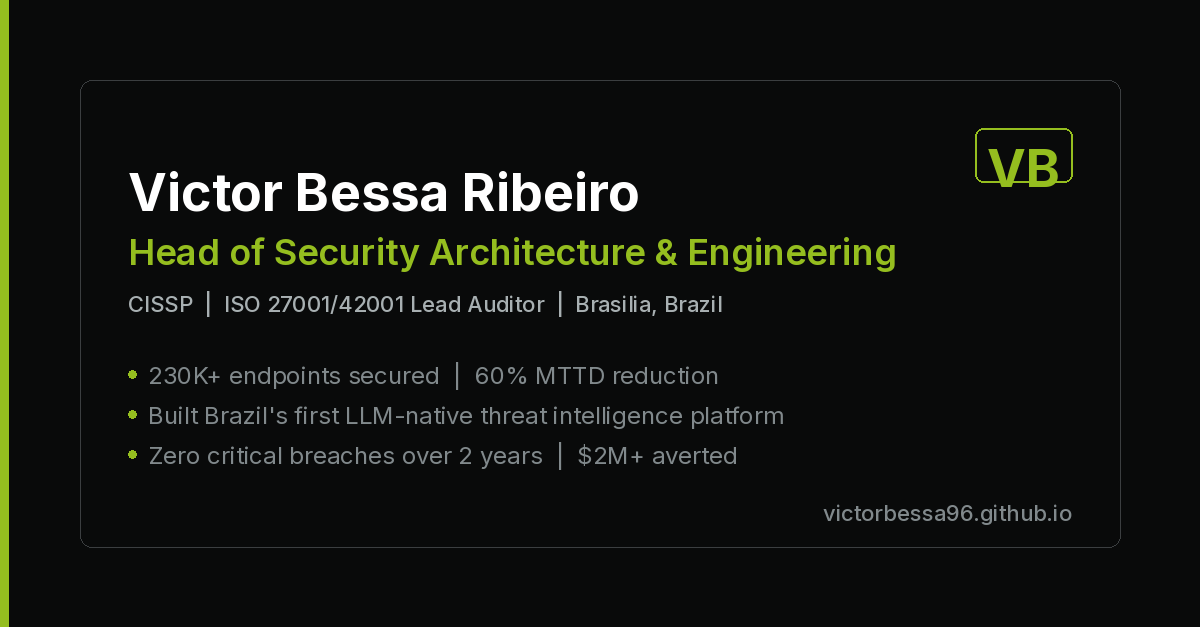
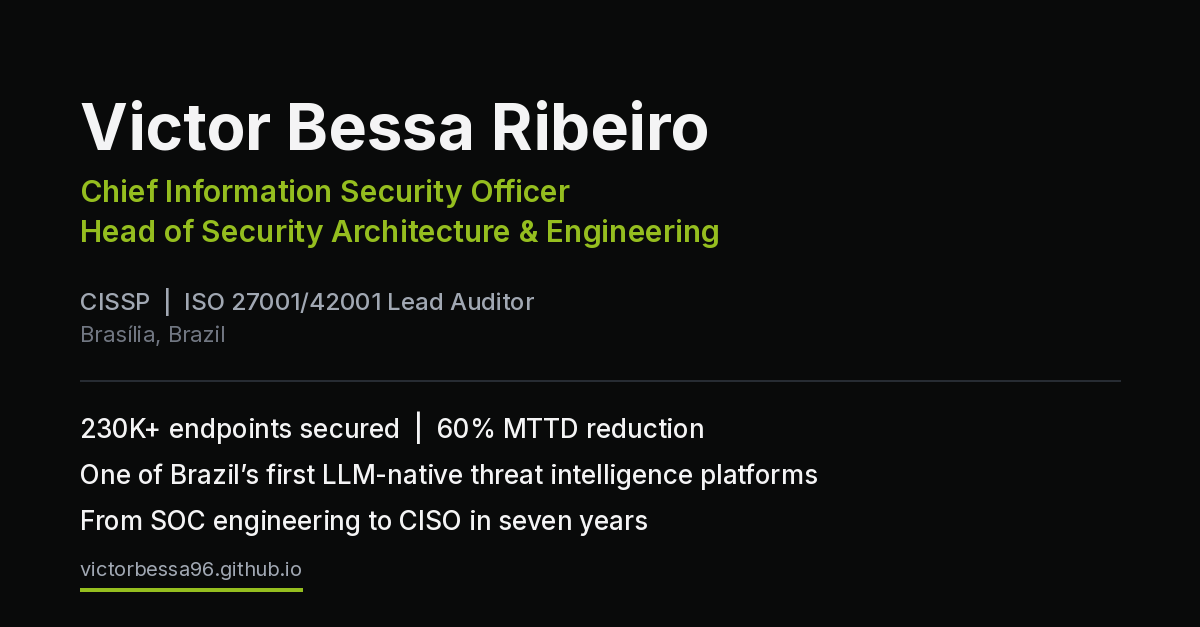
Add CISO (Magentrix) role; audit-driven rewrite of positioning and claims
- Identity: title/meta/OG/JSON-LD now lead with Chief Information
  Security Officer (Magentrix) alongside Head of Security Architecture
  (Zerum IT); worksFor is an array of both orgs
- Experience: new Magentrix CISO entry (Oct 2026 - Present, mandate
  scope only: ISMS/risk/governance, ISO 27001+SOC 2+PCI, bug bounty,
  AI/agent security governance); Zerum Head role concurrent, unchanged
- About: self-referential lines removed, seven-year SOC-to-CISO
  trajectory made explicit, Magentrix paragraph added
- Achievements: reworked to technical/commercial/governance trio;
  zero-breaches demoted to supporting evidence in SOC role; 'sole
  analyst' removed; 'First in Brazil' softened to early-mover
- Claims: 'LGPD certification' -> 'LGPD compliance'; $2M 'projected'
  -> 'incident analysis estimated'; 'Budget & P&L' -> 'Budget
  Management'
- Certs: ISO 9001/20000 and Toastmasters cards removed (LinkedIn);
  CISM stays in-progress until result
- Languages: French A2 removed (site + JSON-LD)
- Sidebar: availability line replaced with velocity statement
- og-banner.png regenerated to match new identity (old banner carried
  stale title and softened-claim violations)
- README: Print Resume -> Download Resume drift fixed
- sitemap.xml lastmod bumped

diff --git a/index.html b/index.html
@@ -4,7 +4,7 @@
     <meta charset="utf-8">
     <meta http-equiv="X-UA-Compatible" content="IE=edge">
     <meta name="viewport" content="width=device-width, initial-scale=1.0">
-    <meta name="description" content="CISSP Security Executive | Head of Security Architecture & Engineering | ISO 27001/42001 Lead Auditor | 230K+ endpoints, 60% MTTD, zero critical breaches.">
+    <meta name="description" content="CISO at Magentrix & Head of Security Architecture at Zerum IT | CISSP, ISO 27001/42001 Lead Auditor | 230K+ endpoints, 60% MTTD cut.">
     <meta name="author" content="Victor Bessa Ribeiro">
     <meta name="robots" content="index, follow, max-image-preview:large, max-snippet:-1, max-video-preview:-1">
     <meta name="theme-color" content="#090a0a" media="(prefers-color-scheme: dark)">
@@ -12,12 +12,12 @@
     <meta http-equiv="Content-Security-Policy" content="default-src 'self'; img-src 'self' data:; font-src 'self'; style-src 'self' 'unsafe-inline'; script-src 'self'; connect-src 'none';">
 
     <!-- Open Graph -->
-    <meta property="og:title" content="Victor Bessa Ribeiro | Cybersecurity Executive & Security Architecture Leader">
-    <meta property="og:description" content="CISSP & ISO 27001/42001 Lead Auditor leading security strategy, AI threat intelligence, and enterprise protection. 230K+ endpoints, 60% MTTD reduction, zero critical breaches over 2 years.">
+    <meta property="og:title" content="Victor Bessa Ribeiro | Chief Information Security Officer & Security Architecture Leader">
+    <meta property="og:description" content="CISO at Magentrix & Head of Security Architecture at Zerum IT | CISSP, ISO 27001/42001 Lead Auditor | 230K+ endpoints, 60% MTTD cut.">
     <meta property="og:image" content="https://victorbessa96.github.io/assets/images/og-banner.png">
     <meta property="og:image:width" content="1200">
     <meta property="og:image:height" content="627">
-    <meta property="og:image:alt" content="Victor Bessa Ribeiro, Head of Security Architecture and Engineering, CISSP, ISO 27001/42001 Lead Auditor">
+    <meta property="og:image:alt" content="Victor Bessa Ribeiro, Chief Information Security Officer and Head of Security Architecture, CISSP, ISO 27001/42001 Lead Auditor">
     <meta property="og:url" content="https://victorbessa96.github.io/">
     <meta property="og:type" content="profile">
     <meta property="og:site_name" content="Victor Bessa Ribeiro">
@@ -26,10 +26,10 @@
 
     <!-- Twitter Card -->
     <meta name="twitter:card" content="summary_large_image">
-    <meta name="twitter:title" content="Victor Bessa Ribeiro | Cybersecurity Executive">
-    <meta name="twitter:description" content="CISSP & ISO 27001/42001 Lead Auditor | Head of Security Architecture & Engineering | 230K+ endpoints, 60% MTTD reduction, zero critical breaches.">
+    <meta name="twitter:title" content="Victor Bessa Ribeiro | CISO & Security Architecture Leader">
+    <meta name="twitter:description" content="CISO at Magentrix & Head of Security Architecture at Zerum IT | CISSP, ISO 27001/42001 Lead Auditor | 230K+ endpoints, 60% MTTD cut.">
     <meta name="twitter:image" content="https://victorbessa96.github.io/assets/images/og-banner.png">
-    <meta name="twitter:image:alt" content="Victor Bessa Ribeiro, cybersecurity executive and security architecture leader">
+    <meta name="twitter:image:alt" content="Victor Bessa Ribeiro, CISO and security architecture leader">
 
     <link rel="canonical" href="https://victorbessa96.github.io/">
     <link rel="icon" href="favicon.ico" type="image/x-icon">
@@ -38,7 +38,7 @@
 
     <link rel="stylesheet" href="assets/css/styles.css">
 
-    <title>Victor Bessa Ribeiro | Cybersecurity Executive & Security Architecture Leader</title>
+    <title>Victor Bessa Ribeiro | Chief Information Security Officer & Security Architecture Leader</title>
 
     <!-- Structured Data -->
     <script type="application/ld+json">
@@ -48,12 +48,18 @@
       "name": "Victor Bessa Ribeiro",
       "givenName": "Victor",
       "familyName": "Bessa Ribeiro",
-      "jobTitle": "Head of Security Architecture and Engineering",
-      "description": "CISSP-certified security executive and ISO 27001/42001 Lead Auditor leading security strategy, AI threat intelligence, and enterprise protection across 230K+ endpoints.",
-      "worksFor": {
-        "@type": "Organization",
-        "name": "Zerum IT"
-      },
+      "jobTitle": "Chief Information Security Officer",
+      "description": "CISSP-certified security executive and ISO 27001/42001 Lead Auditor. Chief Information Security Officer at Magentrix; Head of Security Architecture and Engineering at Zerum IT, leading security strategy, AI threat intelligence, and enterprise protection across 230K+ endpoints.",
+      "worksFor": [
+        {
+          "@type": "Organization",
+          "name": "Magentrix"
+        },
+        {
+          "@type": "Organization",
+          "name": "Zerum IT"
+        }
+      ],
       "url": "https://victorbessa96.github.io/",
       "image": "https://victorbessa96.github.io/assets/images/og-banner.png",
       "email": "mailto:victorbessa96@gmail.com",
@@ -72,7 +78,7 @@
         "@type": "CollegeOrUniversity",
         "name": "Universidade de Brasilia (UnB)"
       },
-      "knowsLanguage": ["pt-BR", "en", "de", "es", "fr"],
+      "knowsLanguage": ["pt-BR", "en", "de", "es"],
       "knowsAbout": ["Cybersecurity", "ISO 27001", "ISO 42001", "CISSP", "LGPD", "GDPR", "NIST CSF", "Threat Intelligence", "LLM Orchestration", "SOC Engineering", "Incident Response", "Detection Engineering", "MITRE ATT&CK", "Zero Trust", "Cloud Security", "SOAR Automation"],
       "sameAs": [
         "https://www.linkedin.com/in/victorbessa96",
@@ -91,7 +97,7 @@
             <div class="sidebar__inner">
                 <div class="sidebar__brand">
                     <h1 class="sidebar__name">Victor Bessa Ribeiro</h1>
-                    <p class="sidebar__title">Head of Security Architecture & Engineering</p>
+                    <p class="sidebar__title">Chief Information Security Officer &middot; Head of Security Architecture</p>
                     <p class="sidebar__location">
                         <svg class="icon icon--sm" viewBox="0 0 16 16" fill="currentColor" aria-hidden="true"><path d="M8 1c2.6 0 5 2.1 5 5 0 3.5-5 9-5 9S3 9.5 3 6c0-2.9 2.4-5 5-5zm0 3a2 2 0 100 4 2 2 0 000-4z"/></svg>
                         Brasília, Brazil
@@ -130,7 +136,7 @@
                 </div>
 
                 <div class="sidebar__status">
-                    <p>Open to CISO, Director of Security, and Head of Cybersecurity roles across Brazil, Canada, and Europe.</p>
+                    <p>From SOC engineering to the CISO seat in seven years: security strategy, AI threat intelligence, and enterprise protection across 230K+ endpoints.</p>
                 </div>
 
             </div>
@@ -147,10 +153,10 @@
                     <h2 class="section__heading">About</h2>
                     <div class="section__content">
                         <p class="lead">
-                            I architect and build security platforms, and I'm credentialed to govern them. Most leaders do one or the other. I've taken security from prototype to revenue: 230K+ endpoints, 60% MTTD reduction, compliance architected in from the first commit. I can sit with a CISO on Monday and a detection engineer on Thursday, and the architecture decisions that come out of those conversations are the same ones. That's not natural. I worked to make it natural.
+                            I architect and build security platforms, and I'm credentialed to govern them: CISSP, ISO 27001/42001 Lead Auditor. Chief Information Security Officer at Magentrix. Head of Security Architecture & Engineering at Zerum IT. Seven years from federal infrastructure to the CISO seat, with security taken from prototype to revenue: 230K+ endpoints, 60% MTTD reduction, compliance architected in from the first commit.
                         </p>
                         <p>
-                            CISSP, ISO 27001/42001 Lead Auditor, leading a 7-engineer security organization across detection engineering, platform, and threat intelligence. Built and commercially launched Zerum Titan, one of Brazil's first LLM-native threat intelligence platforms, delivering 85% cost reduction and ROI in under a year.
+                            At Magentrix I hold the information-security seat for a global SaaS platform: cyber risk, compliance across ISO 27001, SOC 2, and PCI DSS, and security governance for an AI-enabled, agent-capable product. At Zerum IT I lead a 7-engineer security organization across detection engineering, platform, and threat intelligence, and built and commercially launched Zerum Titan, one of Brazil's first LLM-native threat intelligence platforms: 85% cost reduction, ROI in under a year.
                         </p>
                     </div>
                 </div>
@@ -162,11 +168,24 @@
                     <div class="section__content">
                         <div class="exp-item">
                             <div class="exp-item__header">
+                                <h3 class="exp-item__title">Chief Information Security Officer</h3>
+                                <p class="exp-item__meta"><span class="exp-item__company">Magentrix</span> <span class="exp-item__period">Oct 2026 - Present</span></p>
+                            </div>
+                            <ul class="exp-item__list">
+                                <li>Own information security, cyber risk, and security governance for a global SaaS platform serving 500+ customers and 300K+ users.</li>
+                                <li>Lead the compliance program behind ISO 27001 and SOC 2, including the PCI DSS initiative, audit readiness, and customer security assurance.</li>
+                                <li>Direct the bug bounty and vulnerability disclosure program.</li>
+                                <li>Own security governance for AI-enabled platform capabilities: agentic workflows, MCP integrations, authorization, and data protection.</li>
+                            </ul>
+                        </div>
+
+                        <div class="exp-item">
+                            <div class="exp-item__header">
                                 <h3 class="exp-item__title">Head of Security Architecture and Engineering</h3>
                                 <p class="exp-item__meta"><span class="exp-item__company">Zerum IT</span> <span class="exp-item__period">Jun 2026 - Present</span></p>
                             </div>
                             <ul class="exp-item__list">
-                                <li>Own technical security strategy and design across two flagship products, driving multi-tenancy, localization, and compliance adaptation for new-market entry.</li>
+                                <li>Own technical security strategy and security architecture across two flagship products, driving multi-tenancy, localization, and compliance adaptation for new-market entry.</li>
                                 <li>Lead a 7-engineer org spanning detection engineering, platform, and threat intelligence.</li>
                                 <li>Direct detection and response design: coverage mapped to MITRE ATT&CK and NIST CSF, built to withstand adversarial scrutiny.</li>
                                 <li>Ensure ISO 27001/42001 and LGPD/GDPR compliance by design: controls embedded in the architecture, not retrofitted after audit.</li>
@@ -181,7 +200,7 @@
                             <ul class="exp-item__list">
                                 <li>Owned the security innovation roadmap and 150K USD annual budget. Led cross-functional team of 8+ (Product, Engineering, SOC, Legal, Sales) to deliver Zerum Titan from prototype to commercial adoption in 6 months, 60% MTTD reduction across 5 clients, establishing Zerum's first recurring SaaS security revenue.</li>
                                 <li>Engineered 85% cost reduction (43K USD/year) through vendor consolidation and in-house tooling, freeing budget for AI R&D.</li>
-                                <li>Drove Zerum's first formal GRC initiative: ISO 27001, ISO 27701, LGPD certification. Chaired the SGSI committee and presented the multi-year compliance roadmap to the board, securing full executive sponsorship.</li>
+                                <li>Drove Zerum's first formal GRC initiative: ISO 27001 and ISO 27701 implementation plus LGPD compliance. Chaired the SGSI committee and presented the multi-year compliance roadmap to the board, securing full executive sponsorship.</li>
                                 <li>Pioneered LLM orchestration for automated detection workflows and executive reporting, one of Brazil's first commercial AI-orchestrated SOC deployments.</li>
                             </ul>
                         </div>
@@ -194,7 +213,7 @@
                             <ul class="exp-item__list">
                                 <li>Scaled SOC operations (Wazuh SIEM + Zerum Lynx NDR) to 230K endpoints across 5 enterprise and government clients.</li>
                                 <li>Cut analyst investigation time 40% with automated playbooks and 40+ custom detection rules. Onboarded and trained 2 junior analysts on threat hunting methodology.</li>
-                                <li>Detected and contained an active ransomware campaign within 2 hours via UEBA behavioral analysis, preventing encryption of a sensitive government network, $2M+ in projected recovery costs averted.</li>
+                                <li>Identified and contained an active ransomware campaign within 2 hours via UEBA behavioral analysis, preventing encryption of a sensitive government network; incident analysis estimated $2M+ in recovery costs averted.</li>
                                 <li>Maintained zero critical breaches across 230K-endpoint multi-tenant environment over 2 years.</li>
                             </ul>
                         </div>
@@ -285,18 +304,18 @@
                     <h2 class="section__heading">Key Achievements</h2>
                     <div class="section__content">
                         <div class="achievement-item">
-                            <h3 class="achievement-item__title">Ransomware Prevention, $2M+ Averted</h3>
+                            <h3 class="achievement-item__title">Ransomware Containment, Government Client</h3>
                             <p class="achievement-item__year">2023</p>
-                            <p>Sole analyst to identify and contain an active government ransomware campaign within 2 hours via UEBA behavioral analysis, preventing encryption of classified infrastructure. Post-incident playbooks adopted organization-wide.</p>
+                            <p>Identified and contained an active ransomware campaign within two hours via UEBA behavioral analysis, preventing encryption of a sensitive government network. Incident analysis estimated $2M+ in recovery costs averted. Post-incident playbooks adopted organization-wide.</p>
                         </div>
                         <div class="achievement-item">
-                            <h3 class="achievement-item__title">Zero Critical Breaches Over 2 Years</h3>
-                            <p>Maintained zero critical breach events across 230K-endpoint multi-tenant environment through proactive threat hunting and detection methods aligned with ISO 27001 and NIST CSF.</p>
-                        </div>
-                        <div class="achievement-item">
-                            <h3 class="achievement-item__title">First AI-Orchestrated SOC in Brazil</h3>
+                            <h3 class="achievement-item__title">Zerum Titan: Prototype to Revenue</h3>
                             <p class="achievement-item__year">2025</p>
-                            <p>Deployed one of the country's first commercial LLM-native threat intelligence platforms, establishing Zerum's first recurring SaaS security revenue stream and shifting the SOC from reactive triage to proactive threat hunting.</p>
+                            <p>Took an LLM-native threat intelligence platform from prototype to commercial adoption in six months, one of Brazil's first such deployments. 60% MTTD reduction across five clients, 85% cost reduction, ROI in under a year, and Zerum's first recurring SaaS security revenue.</p>
+                        </div>
+                        <div class="achievement-item">
+                            <h3 class="achievement-item__title">Zerum's First Formal GRC Program</h3>
+                            <p>Drove Zerum's first formal GRC initiative: ISO 27001 and ISO 27701 implementation plus LGPD compliance. Chaired the SGSI committee, presented the multi-year compliance roadmap to the board, and secured full executive sponsorship.</p>
                         </div>
                     </div>
                 </div>
@@ -308,7 +327,7 @@
                     <div class="section__content">
                         <div class="competency-group">
                             <h3 class="competency-group__title">Executive Leadership</h3>
-                            <p>Security Strategy, Board Reporting, Executive Advisory, Budget & P&L, Roadmap Development, Product Commercialization</p>
+                            <p>Security Strategy, Board Reporting, Executive Advisory, Budget Management, Roadmap Development, Product Commercialization</p>
                         </div>
                         <div class="competency-group">
                             <h3 class="competency-group__title">GRC and Compliance</h3>
@@ -359,21 +378,11 @@
                                 <p class="cert-item__issuer">Oracle Cloud Infrastructure</p>
                                 <p class="cert-item__org">Oracle</p>
                             </a>
-                            <div class="cert-item">
-                                <h3 class="cert-item__title">ISO 9001 / ISO 20000 Associate</h3>
-                                <p class="cert-item__issuer">Quality & IT Service Management</p>
-                                <p class="cert-item__org">Skillfront</p>
-                            </div>
                             <div class="cert-item cert-item--in-progress">
                                 <h3 class="cert-item__title">CISM</h3>
                                 <p class="cert-item__issuer">Certified Information Security Manager (Exam Oct 2026)</p>
                                 <p class="cert-item__org">ISACA</p>
                             </div>
-                            <a class="cert-item" href="https://www.linkedin.com/learning/certificates/621a9c1673ab3d6018120c069c67492b316a054ec2f2538613a98d53a5178e01?lipi=urn%3Ali%3Apage%3Ad_flagship3_profile_view_base_certifications_details%3BSy7XamZkTG%2B%2FfX2cRGueug%3D%3D" target="_blank" rel="noopener noreferrer">
-                                <h3 class="cert-item__title">Public Speaking Professional</h3>
-                                <p class="cert-item__issuer">Professional Certificate</p>
-                                <p class="cert-item__org">Toastmasters International</p>
-                            </a>
                         </div>
                     </div>
                 </div>
@@ -407,10 +416,6 @@
                             <div class="lang-item">
                                 <span class="lang-item__name">Spanish</span>
                                 <span class="lang-item__level">B1</span>
-                            </div>
-                            <div class="lang-item">
-                                <span class="lang-item__name">French</span>
-                                <span class="lang-item__level">A2</span>
                             </div>
                         </div>
                     </div>

diff --git a/README.md b/README.md
@@ -1,6 +1,6 @@
 # Victor Bessa Ribeiro — Portfolio
 
-Personal portfolio website for Victor Bessa Ribeiro, cybersecurity executive (CISSP, ISO 27001/42001 Lead Auditor).
+Personal portfolio website for Victor Bessa Ribeiro, CISO at Magentrix and Head of Security Architecture & Engineering at Zerum IT (CISSP, ISO 27001/42001 Lead Auditor).
 
 ## Design
 
@@ -13,7 +13,7 @@ Personal portfolio website for Victor Bessa Ribeiro, cybersecurity executive (CI
 
 - Single-page static site (no framework, no build step, no npm)
 - 7 sections: About, Experience, Projects, Achievements, Core Competencies, Certifications, Education/Languages
-- Print Resume button with dedicated `@media print` stylesheet
+- Download Resume button (assets/cv.pdf) with dedicated `@media print` stylesheet
 - JSON-LD Person schema for recruiter discoverability
 - Open Graph + Twitter Card meta tags
 - CSP: `default-src 'self'; script-src 'self'` (no unsafe-inline)
